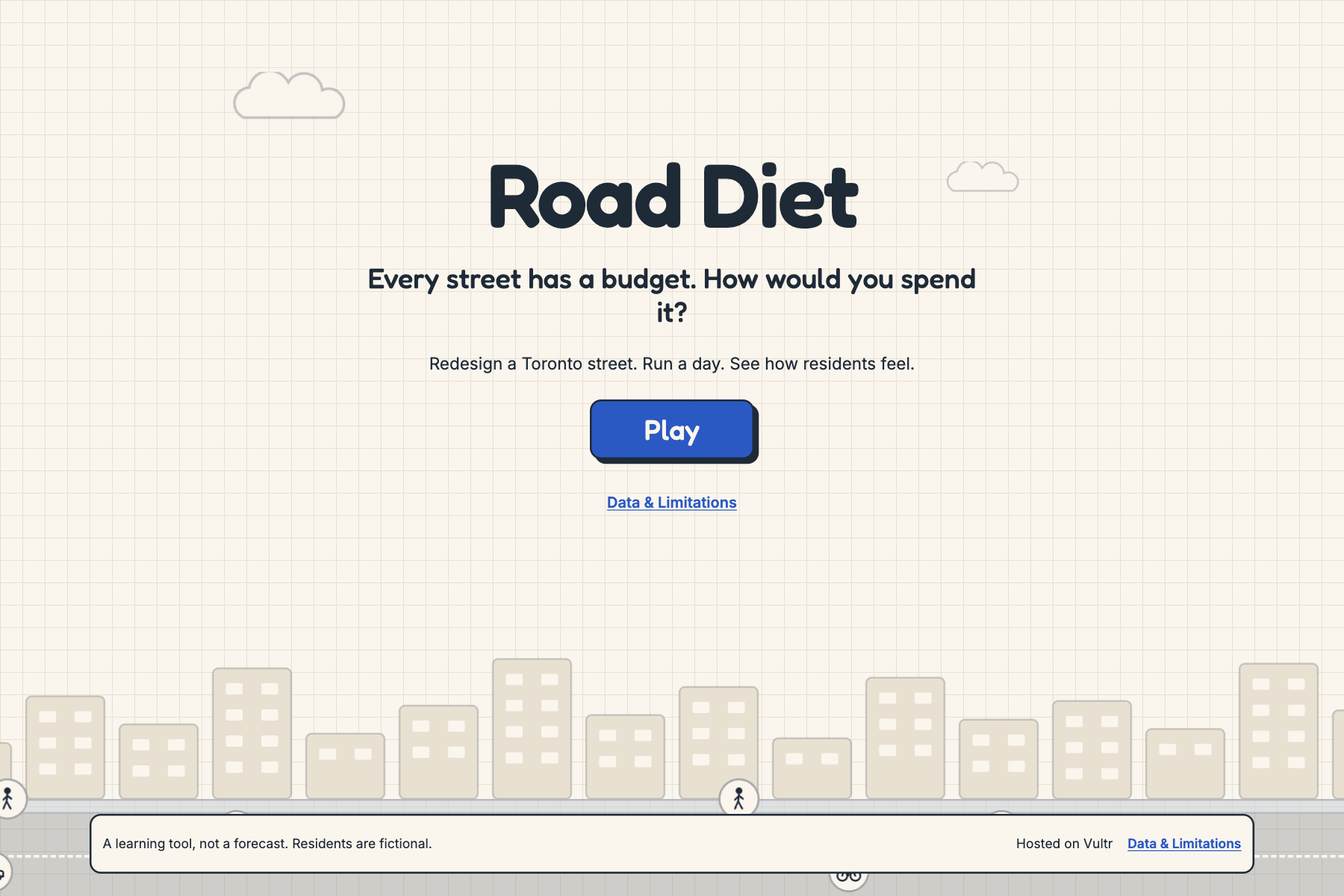
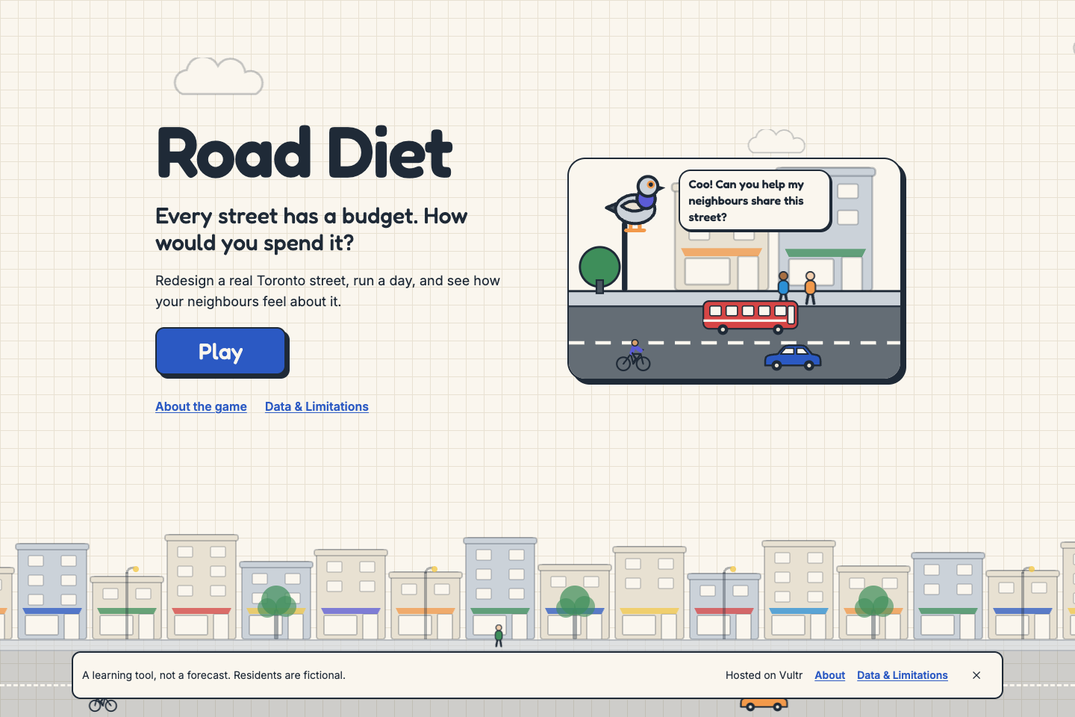
docs: Devpost description and gallery for the current game (#89)
Rewrites DEVPOST.md for both streets, the learning features and every Gemini use,
with the School of Cities wording from the challenge page. shoot.mjs retakes the
10-image gallery from the live site.

diff --git a/docs/DEVPOST.md b/docs/DEVPOST.md
@@ -1,9 +1,6 @@
 # Devpost draft: Road Diet
 
-Paste each section into Devpost. **UNVERIFIED** marks anything not confirmed yet. Fill it in before submitting.
-
-## Initial submission (save a draft now, finish later)
-Devpost lets you edit until the deadline, so save a draft with what is ready today:
+Paste each section into Devpost. **UNVERIFIED** marks anything not confirmed yet. Check or remove each one before submitting.
 
 | Devpost field | What to paste |
 |---|---|
@@ -11,91 +8,114 @@ Devpost lets you edit until the deadline, so save a draft with what is ready tod
 | Elevator pitch | The tagline below |
 | About the project | "Inspiration" through "What's next", below |
 | Built with | The "Built with" list below |
-| Try it out | The repo link now; add the live game after the deploy (#10) |
-| Image gallery | The 7 images in `docs/devpost/`, in order, with the captions below |
+| Try it out | https://roaddiet.design and https://github.com/ashmitahaldar/road-diet |
+| Image gallery | The images in `docs/devpost/`, in order, with the captions below |
 | Video demo | Add after #26 |
 
-Fill in later: the live link, the video, the Gemini model, the Tiger Data and Vultr details, the domain and the Solo-hack declaration (all marked UNVERIFIED).
-
 ## Image gallery
-Taken at 1440×960 from the current build, with no API server, so reactions are the built-in fallback text and no "Powered by Gemini" label shows. Retake 5 and 6 on the live site once Gemini is connected.
+Taken at 1440×960 (the last one at 375 px) from https://roaddiet.design by `node docs/devpost/shoot.mjs`. Rerun it after any change.
 1. `1-start.png`: Road Diet. Every street has a budget.
-2. `2-briefing.png`: Three steps and one goal. Then the real street, drawn from City of Toronto data.
-3. `3-editor-3d.png`: Edit Bloor St W in 3D. Tap a piece and drag its handles; traffic follows the lanes you build.
-4. `4-editor-2d-traffic.png`: The same street from above, with keyboard controls and a design tip.
-5. `5-scorecard.png`: Goal met. Stars, badges, what residents said and the emissions change.
-6. `6-residents-react.png`: Residents keep their reactions on screen while you try another design.
-7. `7-data-sources.png`: Every source and every limitation, listed in the app.
+2. `2-streets.png`: Two real Toronto streets. Each says what you'll learn there.
+3. `3-story.png`: Pip and the people of Mount Pleasant ask for help. Everyone you meet is fictional.
+4. `4-editor-3d.png`: Edit the street in 3D. Traffic follows the lanes you build, and Pip points out the planning idea behind each change.
+5. `5-why.png`: Ask Pip "Why?" on any meter. The answer is built from the model's own numbers.
+6. `6-scorecard.png`: The scorecard. Each resident reacts, and you can open the story of their day.
+7. `7-quick-check.png`: A quick check about your own design.
+8. `8-badges.png`: Badges reward meeting the goal, fairness and balance, never a lane type.
+9. `9-data.png`: Every source and every estimate, listed in the app.
+10. `10-phone.png`: The editor on a phone.
 
 ## Tagline
 Every street has a budget. How would you spend it?
 
 ## Inspiration / the problem
-Road space on Toronto streets is fixed, but demands on it are not. Drivers, delivery trucks, transit riders, cyclists, people walking and local shops all compete for it. Debates about bike lanes, bus lanes and parking get heated, but the trade-offs are hard to see and feel, and the information is spread across datasets and reports.
+A Toronto street is a fixed width, but the people who need it keep changing. Drivers, delivery trucks, bus riders, cyclists, people walking and local shops all want a share. Arguments about bike lanes, bus lanes and parking get heated fast, and the trade-offs are hard to see from a news story or a spreadsheet.
 
-The UofT School of Cities challenge asks: *"What would changing how we use road space actually do?"* (UNVERIFIED wording: copied from our spec. Check it against the challenge page before pasting.) Road Diet is a scenario explorer for that question.
+The School of Cities challenge asks for civic technology that helps people understand a real urban problem facing Toronto, built on Toronto urban data. Its Transit, Congestion and Access theme asks *"Bikes vs. cars vs. pedestrians: can Toronto streets work for everyone?"* and *"What would changing how we use road space actually do?"*
+
+Road Diet is an educational game for that second question. Students, teachers and neighbours redesign a real street themselves, run a day, and hear from the residents who use it. The aim is not to find one right answer. It is to feel why every choice helps someone and costs someone else, and to learn the words planners use for it.
 
 ## What it does
-You redesign a real Toronto street, Bloor St W from Christie St to Ossington Ave (20 m wide, 0.61 km long), within its fixed width:
-- add, remove, resize and reorder sidewalks, car lanes, a bus lane, painted or protected bike lanes, parking and trees
-- edit in 3D (tap a piece, drag its handles) while cars, buses, bikes and people move along the lanes you build, or switch to a 2D view from above that also works by keyboard
-- read design tips drawn from the model's own rules, such as "a painted bike lane beside parking puts riders in the door zone"
-- press **Run a day**
+**Pip's story.** Pip, a bird who lives on a lamppost on the street, introduces the residents and their problem. Each street has its own cast of four fictional residents in the same four roles: a delivery driver, a student who would bike, a senior who walks, and a shop owner.
 
-Everything fits on one screen: meters and tips on the left, the street in the middle, the residents on the right.
+**Two real streets.**
+- **Level 1: Mount Pleasant Rd, Eglinton Ave E to Blythwood Rd.** 20 m wide and 1.1 km long, with four car lanes and no bike lanes today. Goal: cut emissions by at least 5% and keep every resident at least 50/100 happy. You'll learn how a road diet frees up space, and why emissions fall only when some trips switch to the bus, a bike or walking (mode shift).
+- **Level 2: Bloor St W, Christie St to Ossington Ave.** 20 m wide and 0.61 km long, with cycle tracks from 2016 and 2020. Goal: raise the safety index to at least 56 and keep every resident at least 50/100 happy. You'll learn how buffers and keeping bikes out of the door zone make a street safer, and why a fair street works for its least happy resident.
 
-A transparent model then estimates:
-- emissions (kg CO₂e and % change against today's street)
-- a safety index
-- travel times
-- how happy four fictional residents are with their trips: a delivery driver, a student who bikes, a senior who walks and a shop owner
+**Build.** Add, remove, resize and reorder sidewalks, car lanes, a bus lane, painted or protected bike lanes, parking and trees within the street's fixed width.
+- Edit in 3D (tap a piece, drag its handles) while cars, buses, bikes and people move along the lanes you build.
+- Or switch to a 2D view from above that also works fully by keyboard and screen reader.
+- As you build, short lessons appear when a change brings up a planning idea, such as a painted bike lane beside parking putting riders in the door zone.
 
-Each resident reacts in their own words, and the reaction stays on their card while you try another design. The scorecard checks the level goal: cut emissions by at least 25% while keeping every resident at least 50 happy. It then shows:
-- stars and badges
-- a plain-language debrief
-- a visible Limitations panel
-- a chart of how other players solved the same street
-- a share image of your result
+**Run a day.** A transparent model estimates emissions (kg CO₂e and the % change against today), a safety index, travel times, and how happy each resident is with their trip.
+
+**Scorecard.**
+- Each resident reacts in their own words, and you can open the story of their day on your street (morning, midday, evening).
+- Your design gets a short name.
+- Ask Pip "Why?" on any meter or resident to hear the cause in plain words.
+- A quick-check question about your own design tests what stuck.
+- Goal checklist, stars, badges, and Pip's ideas for what to try next.
+- A shareable postcard image of your street.
+- A chart of how other players solved the same street.
+- A visible Limitations panel.
+
+## Learning outcomes and audience
+After a few runs, a player should be able to:
+- **Explain the street budget.** A street has a fixed width, its right-of-way, so every metre given to one use comes from another.
+- **Predict mode shift.** Say which changes make some people switch from driving, and why a new layout only cuts emissions by changing how people choose to travel.
+- **Spot safer layouts.** Recognise buffers between people and traffic, keep bikes out of the door zone, and notice how many lanes people have to cross.
+- **Judge fairness.** Look at a design through its least happy resident, and find a change that helps them without failing someone else.
+- **Read data critically.** Tell measured numbers from estimates, find where each number comes from, and see what open data can't tell you.
+- **Use the words planners use.** Right-of-way, road diet, mode shift, door zone, buffer and curb access.
+
+**How it teaches.** By trying things. An idea that fails teaches as much as one that works. The planning idea behind a change appears when it happens, "Why?" answers any surprise, and the residents turn a percentage into a person.
+
+**Who it's for.** Students in geography, civics, environmental science or urban planning; teachers looking for a short, hands-on activity (one street per lesson, in a browser, with no account or install); and neighbours who want to understand the trade-offs of changes to their street. No planning background is needed.
 
 ## School of Cities questions
-- **Who is the user?** Toronto residents, journalists, community groups and students who want an explorable, shareable way to understand what changing street space does.
-- **What problem does it address?** Every metre of a street given to one use is taken from another, but those trade-offs are hard to see in the debate. The data behind them is spread across many sources.
-- **How does the data solve it?** The level starts from real City of Toronto data for the corridor:
+- **Who is the user?** Students and teachers learning how cities work, and Toronto residents who hear about changes to their street and want to understand the trade-offs.
+- **What problem are they facing?** Every metre of a street given to one use is taken from another, but those trade-offs are hard to see in the debate. The data behind them is spread across many City datasets and reports, and none of it shows what a change would mean for the people who use the street.
+- **How can we solve it with the data we have?** Each level starts from real City of Toronto data for its corridor:
   - length from the Toronto Centreline
-  - peak-hour car, bike and pedestrian volumes from a 2025 intersection count at Bloor/Shaw
-  - nearby collisions where someone was killed or seriously injured (KSI), aggregated
-  - existing cycle tracks from the Cycling Network
-  - the planned right-of-way width from Official Plan Map 3
+  - the planned 20 m right-of-way from Official Plan Map 3
+  - peak-hour car, bike and pedestrian volumes from a City intersection count (Mount Pleasant Rd / Keewatin Ave, 2025-11-11; Bloor St W / Shaw St, 2025-06-25)
+  - collisions where someone was killed or seriously injured (KSI) within 30 m in the last five years, as aggregate counts
+  - existing bike facilities from the Cycling Network
+  - bus service from TTC GTFS (route 103 on Mount Pleasant: 6 buses in the PM peak hour)
+  - streets, lanes and subway stations from OpenStreetMap
 
-  The briefing opens with a map of the corridor drawn from this data: the street, nearby bike routes, subway stations and the collision total. Lane widths follow the City's Lane Widths Guideline. Lane capacities come from NACTO, and emission factors from UK DESNZ. Every source is linked in the app at `/data`.
-- **How does it benefit the user?** It makes trade-offs concrete and personal: you see the effect through residents' eyes, not only as totals.
-  - It explains each result in plain language.
-  - It always says what the model cannot know.
-  - It is neutral by design: it never rewards adding or removing a particular kind of lane. Stars and badges reward meeting the goal, fairness and balance.
+  The briefing opens with a map of the corridor drawn from this data. Lane widths follow the City's Lane Widths Guideline, lane capacities NACTO, and emission factors UK DESNZ. Every source and every estimate is listed in the app at https://roaddiet.design/data.
+- **How does it benefit the user?** It makes trade-offs concrete and personal. Players see the effect of a design through residents' eyes, not only as totals, and each result is explained in plain language. The game always says what the model cannot know, and it is neutral by design: stars and badges reward meeting the goal, fairness and balance, never adding or removing a particular kind of lane.
 
 ## Responsible interpretation
-- Footer on every page and on the scorecard: "A learning tool, not a forecast. Residents are fictional."
-- The Limitations panel sits on the scorecard itself, not only on a separate page. It lists:
-  - the cap on how many trips switch mode
-  - that safety is a layout index, not a collision forecast
-  - every value still waiting for a source
-  - every game-design parameter
-- Estimates in the corridor data are flagged in the app (baseline lane layout, 40 km/h speed, car occupancy).
+- Every page says "A learning tool, not a forecast. Residents are fictional." (in the footer, or the info button when the footer is hidden).
+- The Limitations panel sits on the scorecard itself. It lists the cap on how many trips switch mode, that safety is a layout index and not a collision forecast, every value still waiting for a source, and every game-design parameter.
+- Estimates in the corridor data are flagged in the app: today's lane layout, the speed limit, car occupancy, and 40 riders per bus on Mount Pleasant (assumed, not sourced).
 - No neighbourhood rankings. The only comparison is with other runs of the same street.
-- An automated test fails the build if game copy uses election words. The Gemini prompt forbids them, and a filter replaces any reply that uses them.
+- Three-star designs exist with one car lane and with two on Mount Pleasant, and a test checks that.
+- An automated test fails the build if game copy uses the words vote, election, party or candidate. Every Gemini prompt forbids political topics, and a filter replaces any reply that mentions them.
 
 ## Prize sections
 **Best Climate Action & Sustainability.**
-- Every scorecard shows estimated emissions in kg CO₂e and the % change against today's street.
-- Level 1's goal is an emissions cut, so every winning run is a climate result.
-- The debrief states the mode-shift assumption behind the emissions number.
+- Every scorecard shows estimated peak-hour emissions in kg CO₂e and the % change against today's street.
+- Level 1's goal is an emissions cut, so every win there is a climate result. The Low-Carbon Street badge needs a 10% cut with nobody left below 40/100 happy.
+- The game teaches the cause, not just the number. Emissions change only through mode shift. Pip's "Why?" on the emissions meter says how many fewer people drive and why. The quick check can ask whether emissions fell because of cleaner engines, fewer trips or people switching (only the last is how the model works).
 - Emission factors: UK DESNZ 2024, "average car" 0.16691 kg CO₂e/km and "average local bus" 0.10846 kg CO₂e/passenger-km.
 
-**MLH Best Use of Gemini API.**
-- After each run, the server makes one Gemini call with structured JSON output. It returns the four residents' reactions (at most 25 words each) and a 2–3 sentence debrief.
-- The prompt gets only numbers the server computed itself. Moods come from the model, never from Gemini. The debrief must cite a limitation.
-- Any reply that is off-topic, too long or politically worded is replaced with canned text. A "Powered by Gemini" label appears only when the text really came from Gemini.
-- Model: **UNVERIFIED** (the `GEMINI_MODEL` value on the server).
+**MLH Best Use of Gemini API.** Gemini (`gemini-3.5-flash`, REST `generateContent` in JSON mode) gives the game its voice in four places:
+- **Reactions and debrief.** Each resident's reaction to your design, and a short debrief that always names one model limitation.
+- **Design name and residents' days.** A playful name for your street, and a three-panel story of each resident's day on it.
+- **Pip's "Why?"** A two-sentence answer to "why did this change?" on any meter or resident.
+- **Quick check.** Gemini picks the most useful question for your design from a set the model built, and words it.
+- A fifth use, a generated postcard illustration, is wired up, but image-model quota wasn't available, so the game draws its own postcard instead.
+
+How it stays grounded:
+- Gemini never decides a result. Our tested TypeScript model computes every number and builds a list of true facts about the design. Gemini only gets those facts.
+- Any number in a "Why?" or quick-check reply must appear in the facts, or the reply is thrown out.
+- Quiz answers come from the model, never from Gemini, so the right answer is always right.
+- Replies are schema-checked, length-capped and filtered for political words.
+- Every failure (a timeout, a rate limit, a bad reply) falls back to built-in text, so the game never breaks. A "Powered by Gemini" label shows only when the text really came from Gemini.
+- The key stays on the server.
 
 **MLH Best Use of Tiger Data.**
 - Every run is stored in a TimescaleDB **hypertable** (`runs`, partitioned on `created_at`).
@@ -103,75 +123,71 @@ Each resident reacts in their own words, and the reaction stays on their card wh
 - **Compression** is enabled on `runs`, segmented by level, with a 30-day policy.
 - A percentile query on the raw hypertable powers "your least happy resident is happier than in N% of earlier runs".
 - Seeded demo runs are flagged with a `demo` column and labelled in the chart.
-- Tiger Data service URL: **UNVERIFIED** until it is connected.
+- Live: https://roaddiet.design/api/stats/mount-pleasant-eglinton-blythwood returns real plays from the database.
 
 **MLH Best Use of Vultr.**
-- **UNVERIFIED until the deploy (#10):** the production game, its API and the Caddy reverse proxy with HTTPS run on a Vultr instance.
-- The footer says "Hosted on Vultr".
-- Instance type: **UNVERIFIED**.
+- The production game, its API and the Caddy reverse proxy with automatic HTTPS run on a Vultr instance, deployed by `deploy/setup.sh`.
+- The info panel on every page says "Hosted on Vultr."
+- Instance type: **UNVERIFIED** (copy it from the Vultr dashboard).
 
 **MLH Best Domain Name from GoDaddy Registry.**
-- Domain: **UNVERIFIED**.
-- Before claiming, check on the MLH prize page that its ending qualifies.
+- Domain: https://roaddiet.design. A road diet is a design choice, and the game is about designing a street.
+- **UNVERIFIED:** check on the MLH prize page that `.design` qualifies before claiming.
 
 **Best Solo Hack.**
 - Built solo; the Devpost team has one member.
 - Everything in the repo was built during the event, from the first commit on 2026-10-16 at 22:32 (UTC−4). Pre-event preparation: **UNVERIFIED** (say what, if anything, was set up before the event).
-- Built with an AI coding assistant (Claude Code). (UNVERIFIED: check how the organizers want AI assistance and pre-event preparation declared.)
+- Built with an AI coding assistant (Claude Code). **UNVERIFIED:** check how the organizers want AI assistance declared.
 
 ## Generative AI question
 *Did you implement a generative AI model or API in your hack this weekend? If so, how and why?*
 
 Yes, two ways: the Google Gemini API inside the game, and Claude Code as a coding assistant while building it.
 
-**Gemini, in the game.** After each "Run a day", our server makes one Gemini `generateContent` call in JSON mode. It returns a first-person reaction (25 words or fewer) from each of four fictional residents and a 2–3 sentence debrief of the design's trade-offs. Gemini never decides the results: our own tested TypeScript model computes emissions, safety, travel times and happiness, and Gemini gets only those numbers. Replies are schema-checked. Lines that are too long or mention politics are swapped for pre-written text, and the debrief must name a model limitation. If Gemini fails, the game uses built-in reactions. The key stays on the server, and a "Powered by Gemini" label shows only when the text really came from Gemini. *Why:* numbers alone feel abstract; hearing "my walk feels safer" from a resident makes a result personal, and generated lines respond to the player's actual design.
+**Gemini, in the game.** Our server calls Gemini (`gemini-3.5-flash`) in JSON mode for four things: residents' reactions and a debrief after each run, a name for the design and a three-panel story of each resident's day, Pip's plain-language answer when a player asks "Why?" about a result, and the wording of a quick-check question about the player's design. Gemini never decides the results. Our own tested TypeScript model computes emissions, safety, travel times and happiness, and turns them into a list of true facts. Gemini only sees those facts. Any number Gemini writes in an explanation must appear in them, quiz answers always come from the model, replies are schema-checked and filtered for political words, and every failure falls back to built-in text. The key stays on the server, and a "Powered by Gemini" label shows only when the text really came from Gemini. *Why:* numbers alone feel abstract. Hearing a resident describe their own walk, or Pip explaining in two sentences why emissions fell, makes a result personal and makes the planning idea stick.
 
-**Claude Code, to build it.** I built Road Diet solo with Claude Code (Anthropic's AI coding assistant) as a pair programmer. I set the product direction, data rules and neutrality rules, and reviewed every change through a branch and pull request. Claude Code wrote and refactored much of the React, Three.js, Express and TypeScript code, wrote unit tests, and ran browser checks with Playwright (screenshots at phone and desktop sizes, keyboard and accessibility checks). It also helped draft docs, including this submission. *Why:* as a solo builder with one weekend, it let me ship a 3D editor, a tested model, a database-backed scorecard and accessibility work that I couldn't have finished alone, while I spent my time on design decisions and checking the data.
+**Claude Code, to build it.** I built Road Diet solo with Claude Code (Anthropic's AI coding assistant) as a pair programmer. I set the product direction, the learning goals, the data rules and the neutrality rules, and reviewed every change through a branch and pull request. Claude Code wrote and refactored much of the React, Three.js, Express and TypeScript code, wrote unit tests, and ran browser checks with Playwright (screenshots at phone and desktop sizes, keyboard and accessibility checks). It also helped draft docs, including this submission. *Why:* as a solo builder with one weekend, it let me ship a 3D editor, a tested model, a database-backed scorecard and accessibility work, while I spent my time on design decisions and checking the data.
 
 ## How we built it
 - **Client:** React 19, Vite, Tailwind CSS v4, Motion, and Three.js for the editable 3D street (procedural models, no asset files), and Web Audio for short synthesized sounds.
 - **Server:** Express 5 and zod, plus `pg` for Tiger Data / TimescaleDB.
-- **Model:** pure TypeScript functions shared by the client and server, with vitest tests. Every constant is tagged with its source or marked as a design choice.
-- **Data prep:** a Python script that pulls only corridor-sized extracts from Toronto Open Data, and draws the briefing's corridor map as a static SVG (no map tiles or API keys at demo time).
+- **Model:** pure TypeScript functions shared by the client and server, with vitest tests. Every constant is tagged with its source or marked as a design choice. The same code builds the facts that ground Gemini.
+- **Data prep:** a Python script (`data/prep/prep.py`) that pulls only corridor-sized extracts from Toronto Open Data, TTC GTFS and OpenStreetMap, and draws each briefing's corridor map as a static SVG (no map tiles or API keys at play time).
+- **Accessibility:** keyboard-complete 2D editor, screen-reader labels, reduced-motion support, and axe checks at phone and desktop widths.
 
 ## Data sources
-These are the sources used in the game, also listed in the app at `/data`.
+These are the sources used in the game, also listed in the app at https://roaddiet.design/data.
 - Toronto Centreline (TCL) v2: https://open.toronto.ca/dataset/toronto-centreline-tcl/
 - Traffic Volumes at Intersections for All Modes: https://open.toronto.ca/dataset/traffic-volumes-at-intersections-for-all-modes/
 - Motor Vehicle Collisions involving Killed or Seriously Injured Persons: https://open.toronto.ca/dataset/motor-vehicle-collisions-involving-killed-or-seriously-injured-persons/
 - Cycling Network: https://open.toronto.ca/dataset/cycling-network/
+- TTC Routes and Schedules (GTFS): https://open.toronto.ca/dataset/ttc-routes-and-schedules/
 - Official Plan Map 3, Right-of-Way Widths (June 2026): https://www.toronto.ca/wp-content/uploads/2026/06/98b4-CityPlanning-Map-3-ROW-Widths-Associated-with-Existing-Major-Streets.pdf
 - City of Toronto Lane Widths Guideline v3.0 (2025): https://www.toronto.ca/wp-content/uploads/2025/11/96f7-Lane-Widths-Guideline-Version-3.0.pdf
 - NACTO Transit Street Design Guide, "Designing to Move People" (read through this excerpt): https://archive.strongtowns.org/journal/2016/5/23/excerpt-from-nacto-transit-street-design-guide
 - UK DESNZ Greenhouse gas reporting conversion factors 2024: https://www.gov.uk/government/publications/greenhouse-gas-reporting-conversion-factors-2024
-- OpenStreetMap contributors (streets and subway stations on the corridor map, ODbL): https://www.openstreetmap.org/copyright
+- OpenStreetMap contributors (lane and speed tags on Mount Pleasant Rd; streets and subway stations on the corridor maps; ODbL): https://www.openstreetmap.org/copyright
 
 ## Challenges
-- Lane widths aren't in any open dataset, so today's layout is an estimate, flagged in the app.
-- Bloor St W has the subway underneath and no daytime surface bus, so bus demand on this segment is zero.
-- Keeping the scoring neutral: badges are gated on meeting the goal, because the unchanged street already scored as "fair".
+- Lane widths aren't in any open dataset, so today's layout on both streets is an estimate, flagged in the app.
+- Bus riders per bus on Mount Pleasant isn't in an open dataset either. The game uses 40, labelled as an assumption.
+- Bloor St W has the subway underneath and no daytime surface bus, so an emissions goal there made dropping a car lane the only way to win. Its goal became a safety goal, which several designs can meet.
+- Keeping the scoring neutral: badges are gated on meeting the goal and keeping residents happy, because the unchanged street already scored as "fair".
+- Keeping Gemini honest: the numbers check on every explanation, and building quiz answers in the model rather than asking Gemini for them.
 
 ## What's next
-- A second corridor.
-- Sourcing the remaining constants listed on `/data`.
+- More Toronto streets, built by the same corridor pipeline.
+- Use the collision data to scale the safety index, not only show it as context.
+- Source the remaining constants listed on `/data`, starting with bus riders per bus.
+- A teacher's guide with one lesson per street.
 
 ## Built with
-typescript, react, vite, tailwindcss, three.js, node.js, express, postgresql, timescaledb, tiger-data, gemini, vultr, caddy, python
+typescript, react, vite, tailwindcss, three.js, node.js, express, postgresql, timescaledb, tiger-data, gemini, vultr, caddy, python, playwright
 
 ## Links
-- Live game: **UNVERIFIED** (domain)
+- Live game: https://roaddiet.design
 - Repo: https://github.com/ashmitahaldar/road-diet
 - Demo video: **UNVERIFIED** (upload, then check the link in an incognito window)
-
-## Backup demo recording
-`docs/demo/record.mjs` walks the spec 1.7c demo in about 77 s at 1280×720: the problem and neutrality line, the corridor and its sources, an edit and a run, the scorecard with Limitations, the Others chart, and the footer and `/data`. It has no voiceover. Narrate over it, or record your own and keep this one as the backup.
-
-```bash
-npm i --no-save playwright@1.64.1 && npx playwright install chromium
-BASE_URL=https://<your-domain> node docs/demo/record.mjs /tmp/demo   # prints the timeline and the .webm path
-ffmpeg -i /tmp/demo/*.webm -c:v libx264 -pix_fmt yuv420p -movflags +faststart road-diet-demo.mp4
-```
-Run it against the live site, so the video shows the domain, the Vultr footer and the Gemini label. The Others chart appears only when the server has a database.
 
 ---
 
@@ -180,10 +196,13 @@ Run it against the live site, so the video shows the domain, the Vultr footer an
 |---|---|
 | Devpost team size is 1 | You |
 | Each prize opted in on Devpost: School of Cities, Climate, Solo, Gemini, Tiger Data, Vultr, GoDaddy | You |
-| Devpost text names every prize and its feature | Done above; fill in the UNVERIFIED items |
-| All data sources linked in Devpost and on `/data` | Done (list above = corridor `sources` + cited constants) |
-| School of Cities answers pasted verbatim | Done above |
-| Gemini, Tiger Data and Vultr labels visible in the live app | Blocked on deploy (#10), the Gemini key and the Tiger Data URL |
+| Devpost text names every prize and its feature | Done above |
+| All data sources linked in Devpost and on `/data` | Done |
+| School of Cities answers pasted | Done above |
+| Live deploy at https://roaddiet.design | Done |
+| Gemini key on the server, labels visible in the live app | Done (`gemini-3.5-flash`). The free tier allows 20 requests a day, so check the labels on the day you submit |
+| Tiger Data connected, Others chart live | Done |
 | Domain qualifies for GoDaddy Registry (confirmed on the MLH page) | You |
-| Demo video uploaded; link works in an incognito window | You. A scripted backup is described above |
-| Submitted at least 1 hour before the deadline (aim for 9:00 AM Sunday) | You |
+| Vultr instance type copied in | You |
+| Demo video uploaded; link works in an incognito window | You (#26) |
+| Submitted at least 1 hour before the deadline | You |
